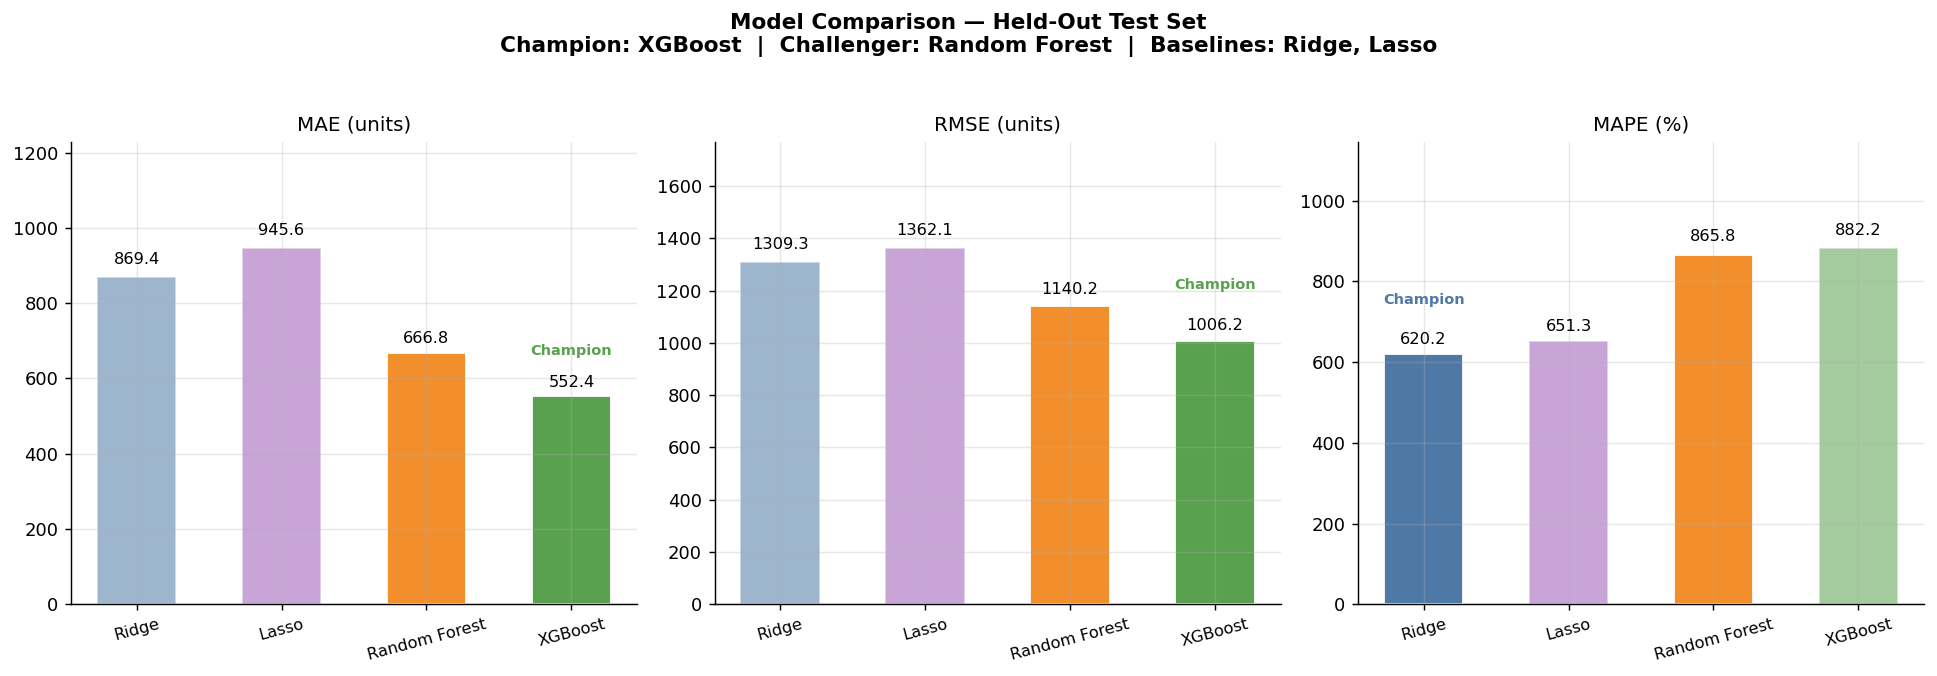
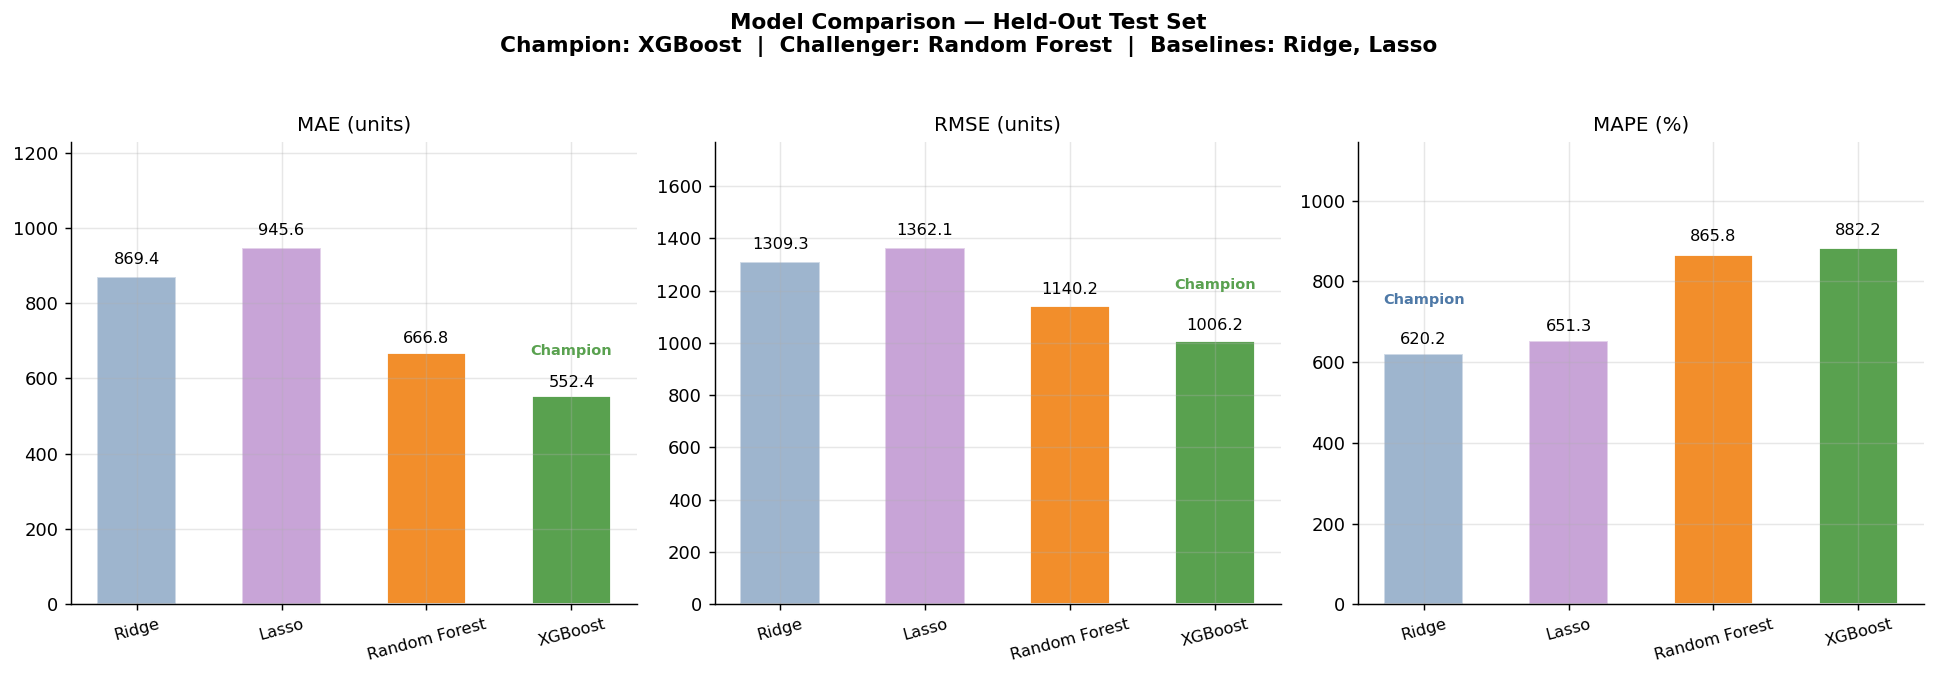
Fix: make champion/challenger chart title data-driven
Previously hardcoded Champion: XGBoost in suptitle.
Now derived dynamically from test RMSE idxmin.

Changed region(s): [[0.9293, 0.3417, 0.9912, 0.9009], [0.7124, 0.497, 0.7744, 0.9009]]

diff --git a/demand_forecast.py b/demand_forecast.py
@@ -436,17 +436,24 @@ def plot_model_comparison(df_res):
     metrics     = ["MAE", "RMSE", "MAPE"]
     model_order = ["Ridge", "Lasso", "Random Forest", "XGBoost"]
 
+    champion   = test_res["RMSE"].idxmin()
+    challenger = test_res["RMSE"].drop(champion).idxmin()
+    non_linear = {"Random Forest", "XGBoost"}
+    baselines  = [m for m in model_order if m not in non_linear]
+
     fig, axes = plt.subplots(1, 3, figsize=(15, 5))
-    fig.suptitle("Model Comparison — Held-Out Test Set\n"
-                 "Champion: XGBoost  |  Challenger: Random Forest  |  "
-                 "Baselines: Ridge, Lasso",
-                 fontsize=12, fontweight="bold", y=1.03)
+    fig.suptitle(
+        f"Model Comparison — Held-Out Test Set\n"
+        f"Champion: {champion}  |  Challenger: {challenger}  |  "
+        f"Baselines: {', '.join(baselines)}",
+        fontsize=12, fontweight="bold", y=1.03,
+    )
 
     for ax, metric in zip(axes, metrics):
         vals  = test_res.loc[model_order, metric]
         best  = vals.idxmin()
         cols  = [COLORS[m] for m in model_order]
-        alpha = [1.0 if m in [best, "Random Forest"] else 0.55
+        alpha = [1.0 if m in [champion, challenger] else 0.55
                  for m in model_order]
         # Draw each bar individually so alpha can vary per bar
         bar_patches = []